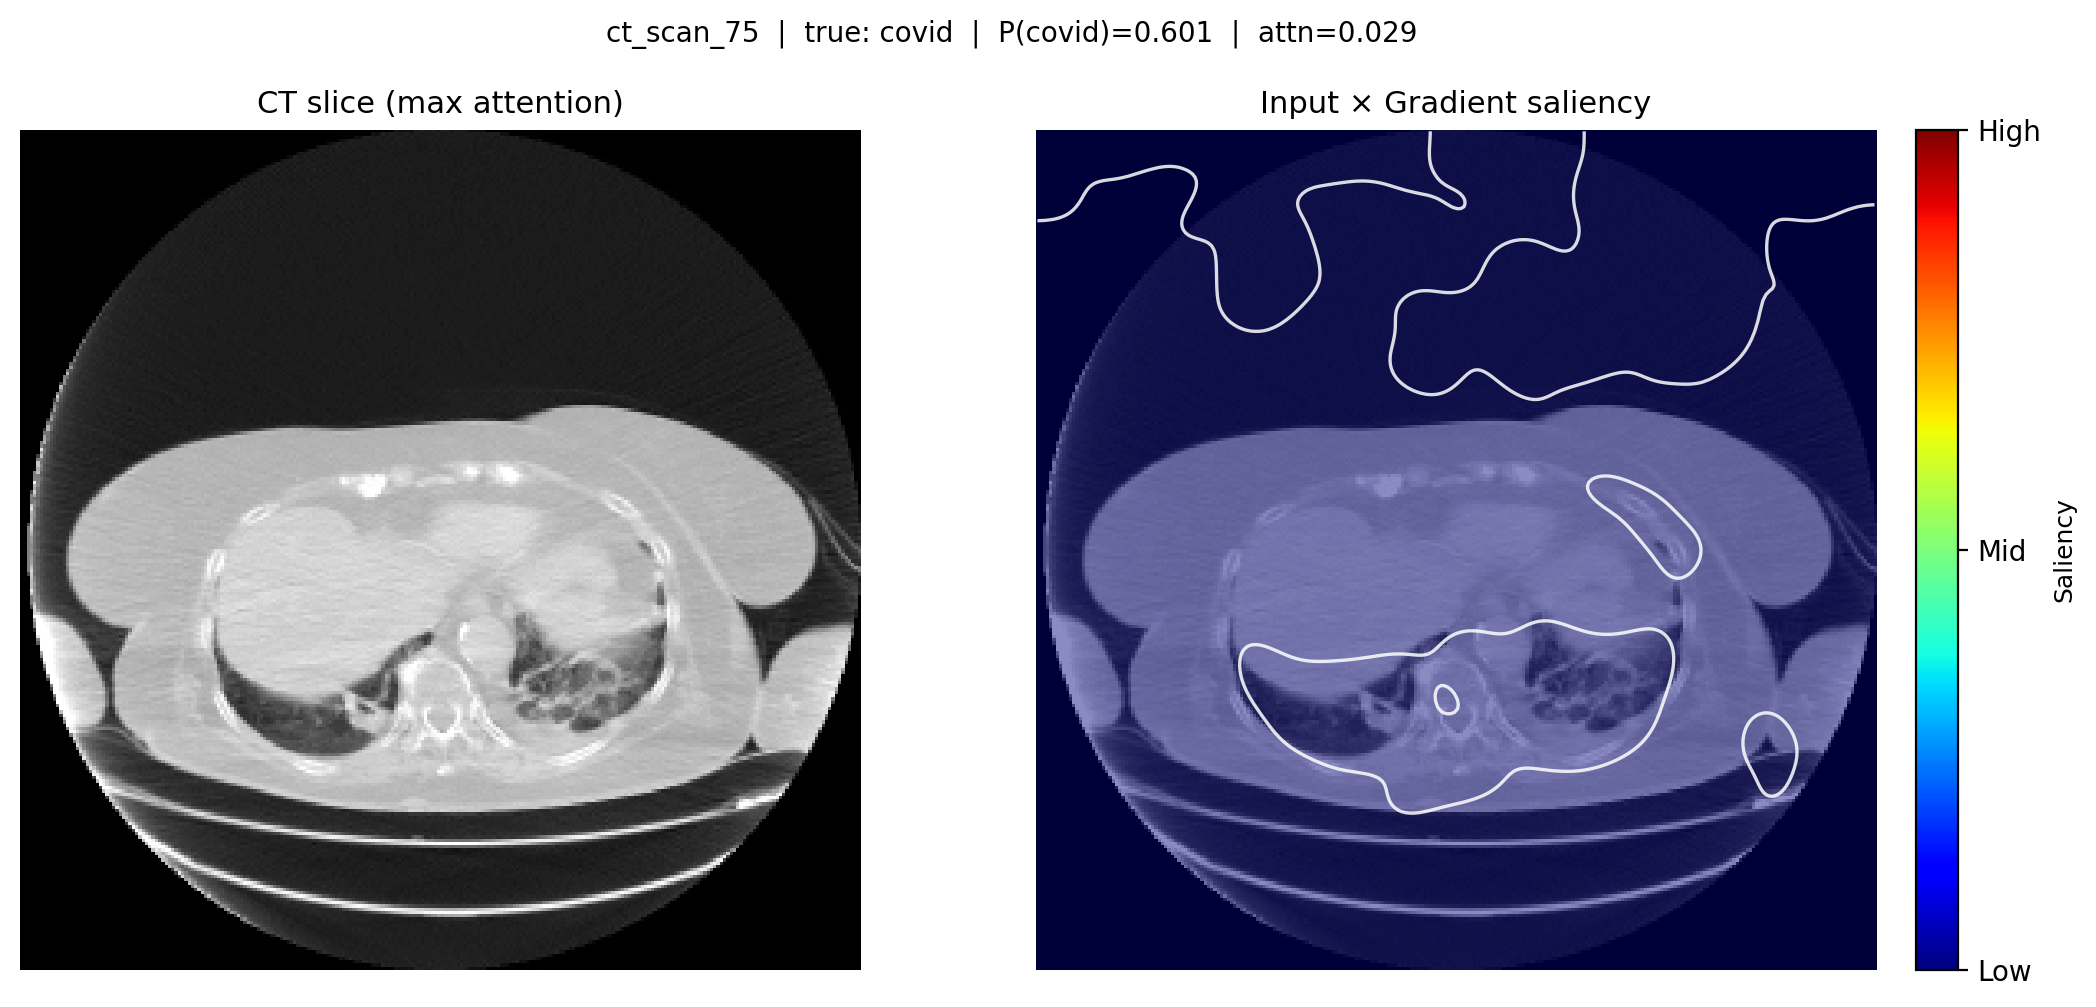
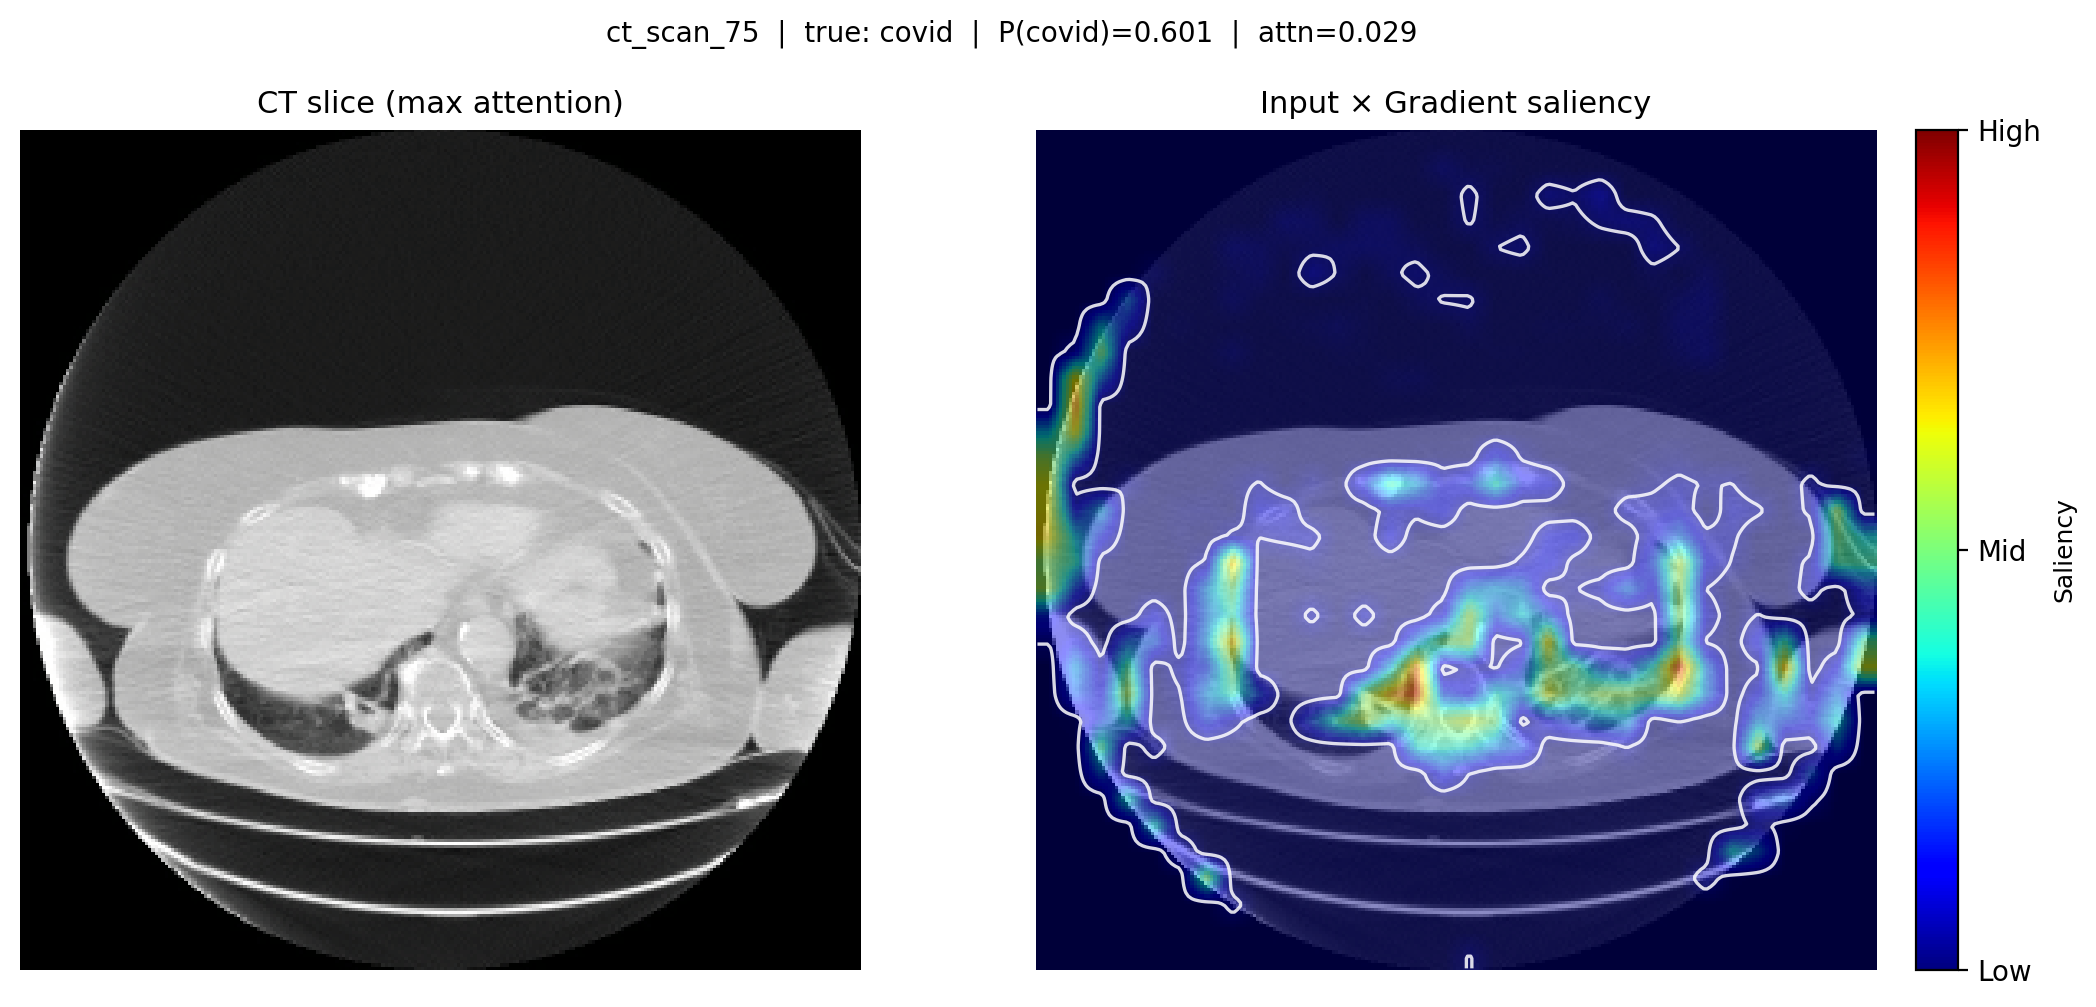
heatmap overlay

diff --git a/src/gradcam_pp.py b/src/gradcam_pp.py
@@ -74,9 +74,27 @@ def tensor_to_rgb_uint8(tchw: torch.Tensor) -> np.ndarray:
 
 
 def overlay_heatmap_on_rgb(
-    rgb: np.ndarray, cam_01: np.ndarray, alpha: float = 0.45, colormap: str = "jet",
+    rgb: np.ndarray,
+    cam_01: np.ndarray,
+    max_alpha: float = 0.75,
+    colormap: str = "hot",
+    low_threshold: float = 0.25,
 ) -> np.ndarray:
-    """Overlay a [0,1] CAM on an HxWx3 uint8 image. Returns uint8 HxWx3."""
+    """
+    Saliency-proportional alpha overlay on an HxWx3 uint8 CT image.
+
+    Alpha scales with the saliency value so low-activation regions are fully
+    transparent (CT anatomy shows through) and only high-activation regions
+    get the colored overlay. Colormap 'hot' (black→red→yellow→white) works
+    well on dark CT backgrounds without flooding the image with blue.
+
+    Args:
+        rgb:           (H, W, 3) uint8 base CT image
+        cam_01:        (H, W) float32 saliency in [0, 1]
+        max_alpha:     maximum opacity at saliency=1.0 (default 0.75)
+        colormap:      matplotlib colormap (default "hot")
+        low_threshold: saliency below this is fully transparent (default 0.25)
+    """
     import matplotlib
 
     if hasattr(matplotlib, "colormaps"):
@@ -84,8 +102,15 @@ def overlay_heatmap_on_rgb(
     else:
         import matplotlib.cm as cm
         cmap = cm.get_cmap(colormap)
+
     heat = (cmap(cam_01)[:, :, :3] * 255.0).astype(np.float32)
-    out = (1.0 - alpha) * rgb.astype(np.float32) + alpha * heat
+
+    # Alpha scales with saliency; zero below threshold so CT shows through
+    alpha_map = np.where(cam_01 < low_threshold, 0.0, cam_01 * max_alpha)
+    alpha_map = alpha_map[:, :, np.newaxis]   # (H, W, 1) for broadcasting
+
+    base = rgb.astype(np.float32)
+    out = (1.0 - alpha_map) * base + alpha_map * heat
     return np.clip(out, 0, 255).astype(np.uint8)
 
 
@@ -207,6 +232,26 @@ def mil_gradcam_pp(
     return rgb, overlay, logits.detach(), attn.detach(), cam_np
 
 
+def _clahe_enhance(rgb: np.ndarray) -> np.ndarray:
+    """
+    Apply CLAHE to a uint8 RGB image and return a contrast-enhanced grayscale uint8 array.
+
+    Converts to luminance, applies CLAHE (clip_limit=0.03, tile_grid 8×8), returns uint8.
+    Falls back to simple percentile stretch if skimage is unavailable.
+    """
+    gray = (0.299 * rgb[:, :, 0] + 0.587 * rgb[:, :, 1] + 0.114 * rgb[:, :, 2]).astype(np.float32)
+    try:
+        from skimage.exposure import equalize_adapthist
+        gray_norm = gray / 255.0
+        enhanced = equalize_adapthist(gray_norm, clip_limit=0.03, nbins=256)
+        return (enhanced * 255.0).astype(np.uint8)
+    except ImportError:
+        # Percentile stretch fallback: map p1–p99 to [0, 255]
+        p1, p99 = np.percentile(gray, [1, 99])
+        stretched = np.clip((gray - p1) / (p99 - p1 + 1e-8), 0.0, 1.0)
+        return (stretched * 255.0).astype(np.uint8)
+
+
 def save_individual_saliency(
     rgb: np.ndarray,
     overlay: np.ndarray,
@@ -218,10 +263,12 @@ def save_individual_saliency(
     attn_weight: float,
 ) -> None:
     """
-    Two-panel figure per scan: CT slice | saliency overlay with colorbar + contour.
+    Two-panel figure per scan: CLAHE-enhanced CT | Grad-CAM++ overlay.
 
-    Contour drawn at the 75th percentile of the saliency map to clearly
-    mark the regions contributing most to the model's prediction.
+    Left panel: CLAHE contrast-enhanced grayscale — makes lung parenchyma and
+    ground-glass opacities clearly visible against the dark CT background.
+    Right panel: saliency-proportional alpha overlay (hot colormap) + white
+    contour at the 75th-percentile saliency level.
     """
     import matplotlib.pyplot as plt
     import matplotlib.cm as cm
@@ -229,11 +276,13 @@ def save_individual_saliency(
 
     os.makedirs(os.path.dirname(out_path) or ".", exist_ok=True)
 
+    clahe_gray = _clahe_enhance(rgb)   # (H, W) uint8, high contrast
+
     fig, axes = plt.subplots(1, 2, figsize=(11, 5))
 
-    # Left: original CT
-    axes[0].imshow(rgb, cmap="gray")
-    axes[0].set_title("CT slice (max attention)", fontsize=11)
+    # Left: CLAHE-enhanced CT (gray colormap on single-channel array)
+    axes[0].imshow(clahe_gray, cmap="gray", vmin=0, vmax=255)
+    axes[0].set_title("CT slice — CLAHE enhanced", fontsize=11)
     axes[0].axis("off")
 
     # Right: saliency overlay
@@ -243,12 +292,12 @@ def save_individual_saliency(
     threshold = np.percentile(sal_np, 75)
     axes[1].contour(sal_np, levels=[threshold], colors="white", linewidths=1.2, alpha=0.85)
 
-    axes[1].set_title("Input × Gradient saliency", fontsize=11)
+    axes[1].set_title("Grad-CAM++", fontsize=11)
     axes[1].axis("off")
 
-    # Colorbar
+    # Colorbar matching the "hot" colormap used in overlay_heatmap_on_rgb
     norm = Normalize(vmin=0, vmax=1)
-    sm = cm.ScalarMappable(cmap="jet", norm=norm)
+    sm = cm.ScalarMappable(cmap="hot", norm=norm)
     sm.set_array([])
     cbar = fig.colorbar(sm, ax=axes[1], fraction=0.046, pad=0.04)
     cbar.set_label("Saliency", fontsize=9)

diff --git a/scripts/run_gradcam_pp.py b/scripts/run_gradcam_pp.py
@@ -140,7 +140,7 @@ def _save_grid(entries: list[dict], output_dir: str) -> None:
             ax.axis("off")
         axes[col, 0].set_ylabel(class_name, fontsize=11, labelpad=8)
 
-    plt.suptitle("Input × Gradient Saliency  |  EfficientNet-B3 MIL  |  Top-4 by confidence",
+    plt.suptitle("Grad-CAM++  |  EfficientNet-B3 MIL  |  Top-4 by confidence",
                  fontsize=12)
     plt.tight_layout()
     out_path = os.path.join(output_dir, "saliency_top4_grid.png")
@@ -233,7 +233,7 @@ def run_top_n_mode(args, cfg, model, device) -> None:
 
 def main() -> None:
     p = argparse.ArgumentParser(
-        description="Input × Gradient saliency for EfficientNet-B3 MIL."
+        description="Grad-CAM++ saliency for EfficientNet-B3 MIL."
     )
     p.add_argument("--checkpoint", type=str, required=True,
                    help="Checkpoint path (use checkpoints/exp_b3_s42/best.pt)")
@@ -292,7 +292,7 @@ def main() -> None:
     )
     probs = torch.softmax(logits, dim=1)[0]
     right_title = (
-        f"Input × Gradient  |  slice {slice_idx}  |  "
+        f"Grad-CAM++  |  slice {slice_idx}  |  "
         f"P(covid)={probs[0]:.3f}  attn={attn[0, slice_idx]:.3f}"
     )
     save_side_by_side(rgb, overlay, args.output,
